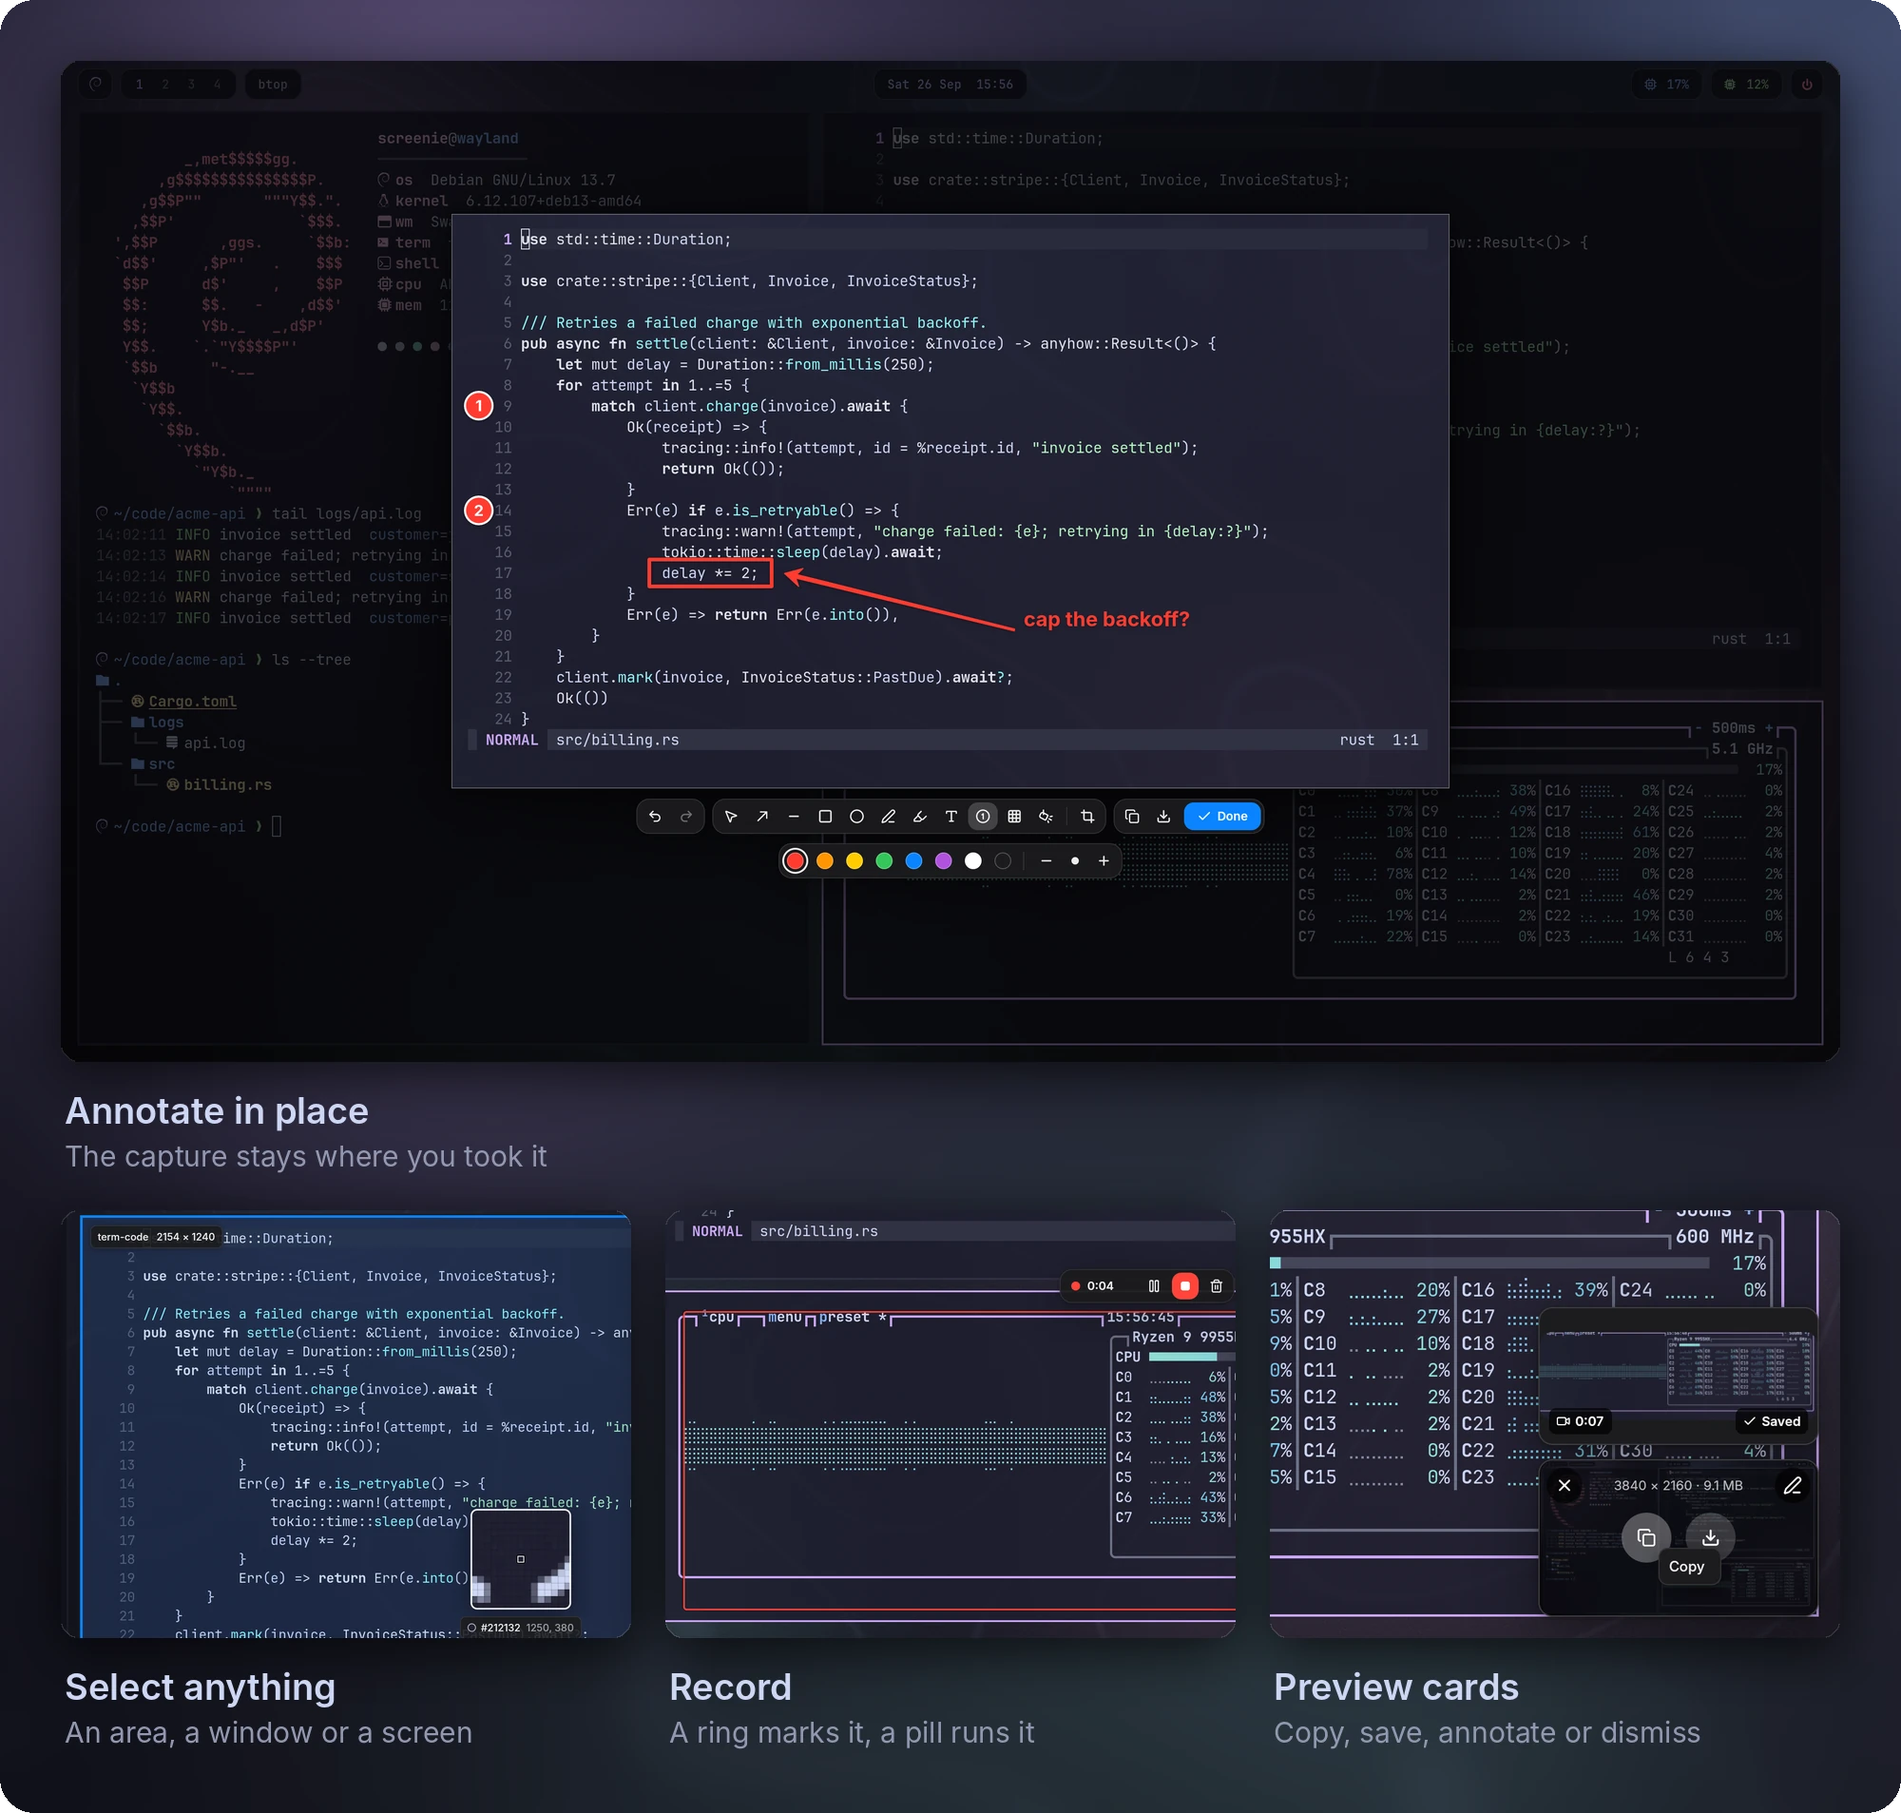
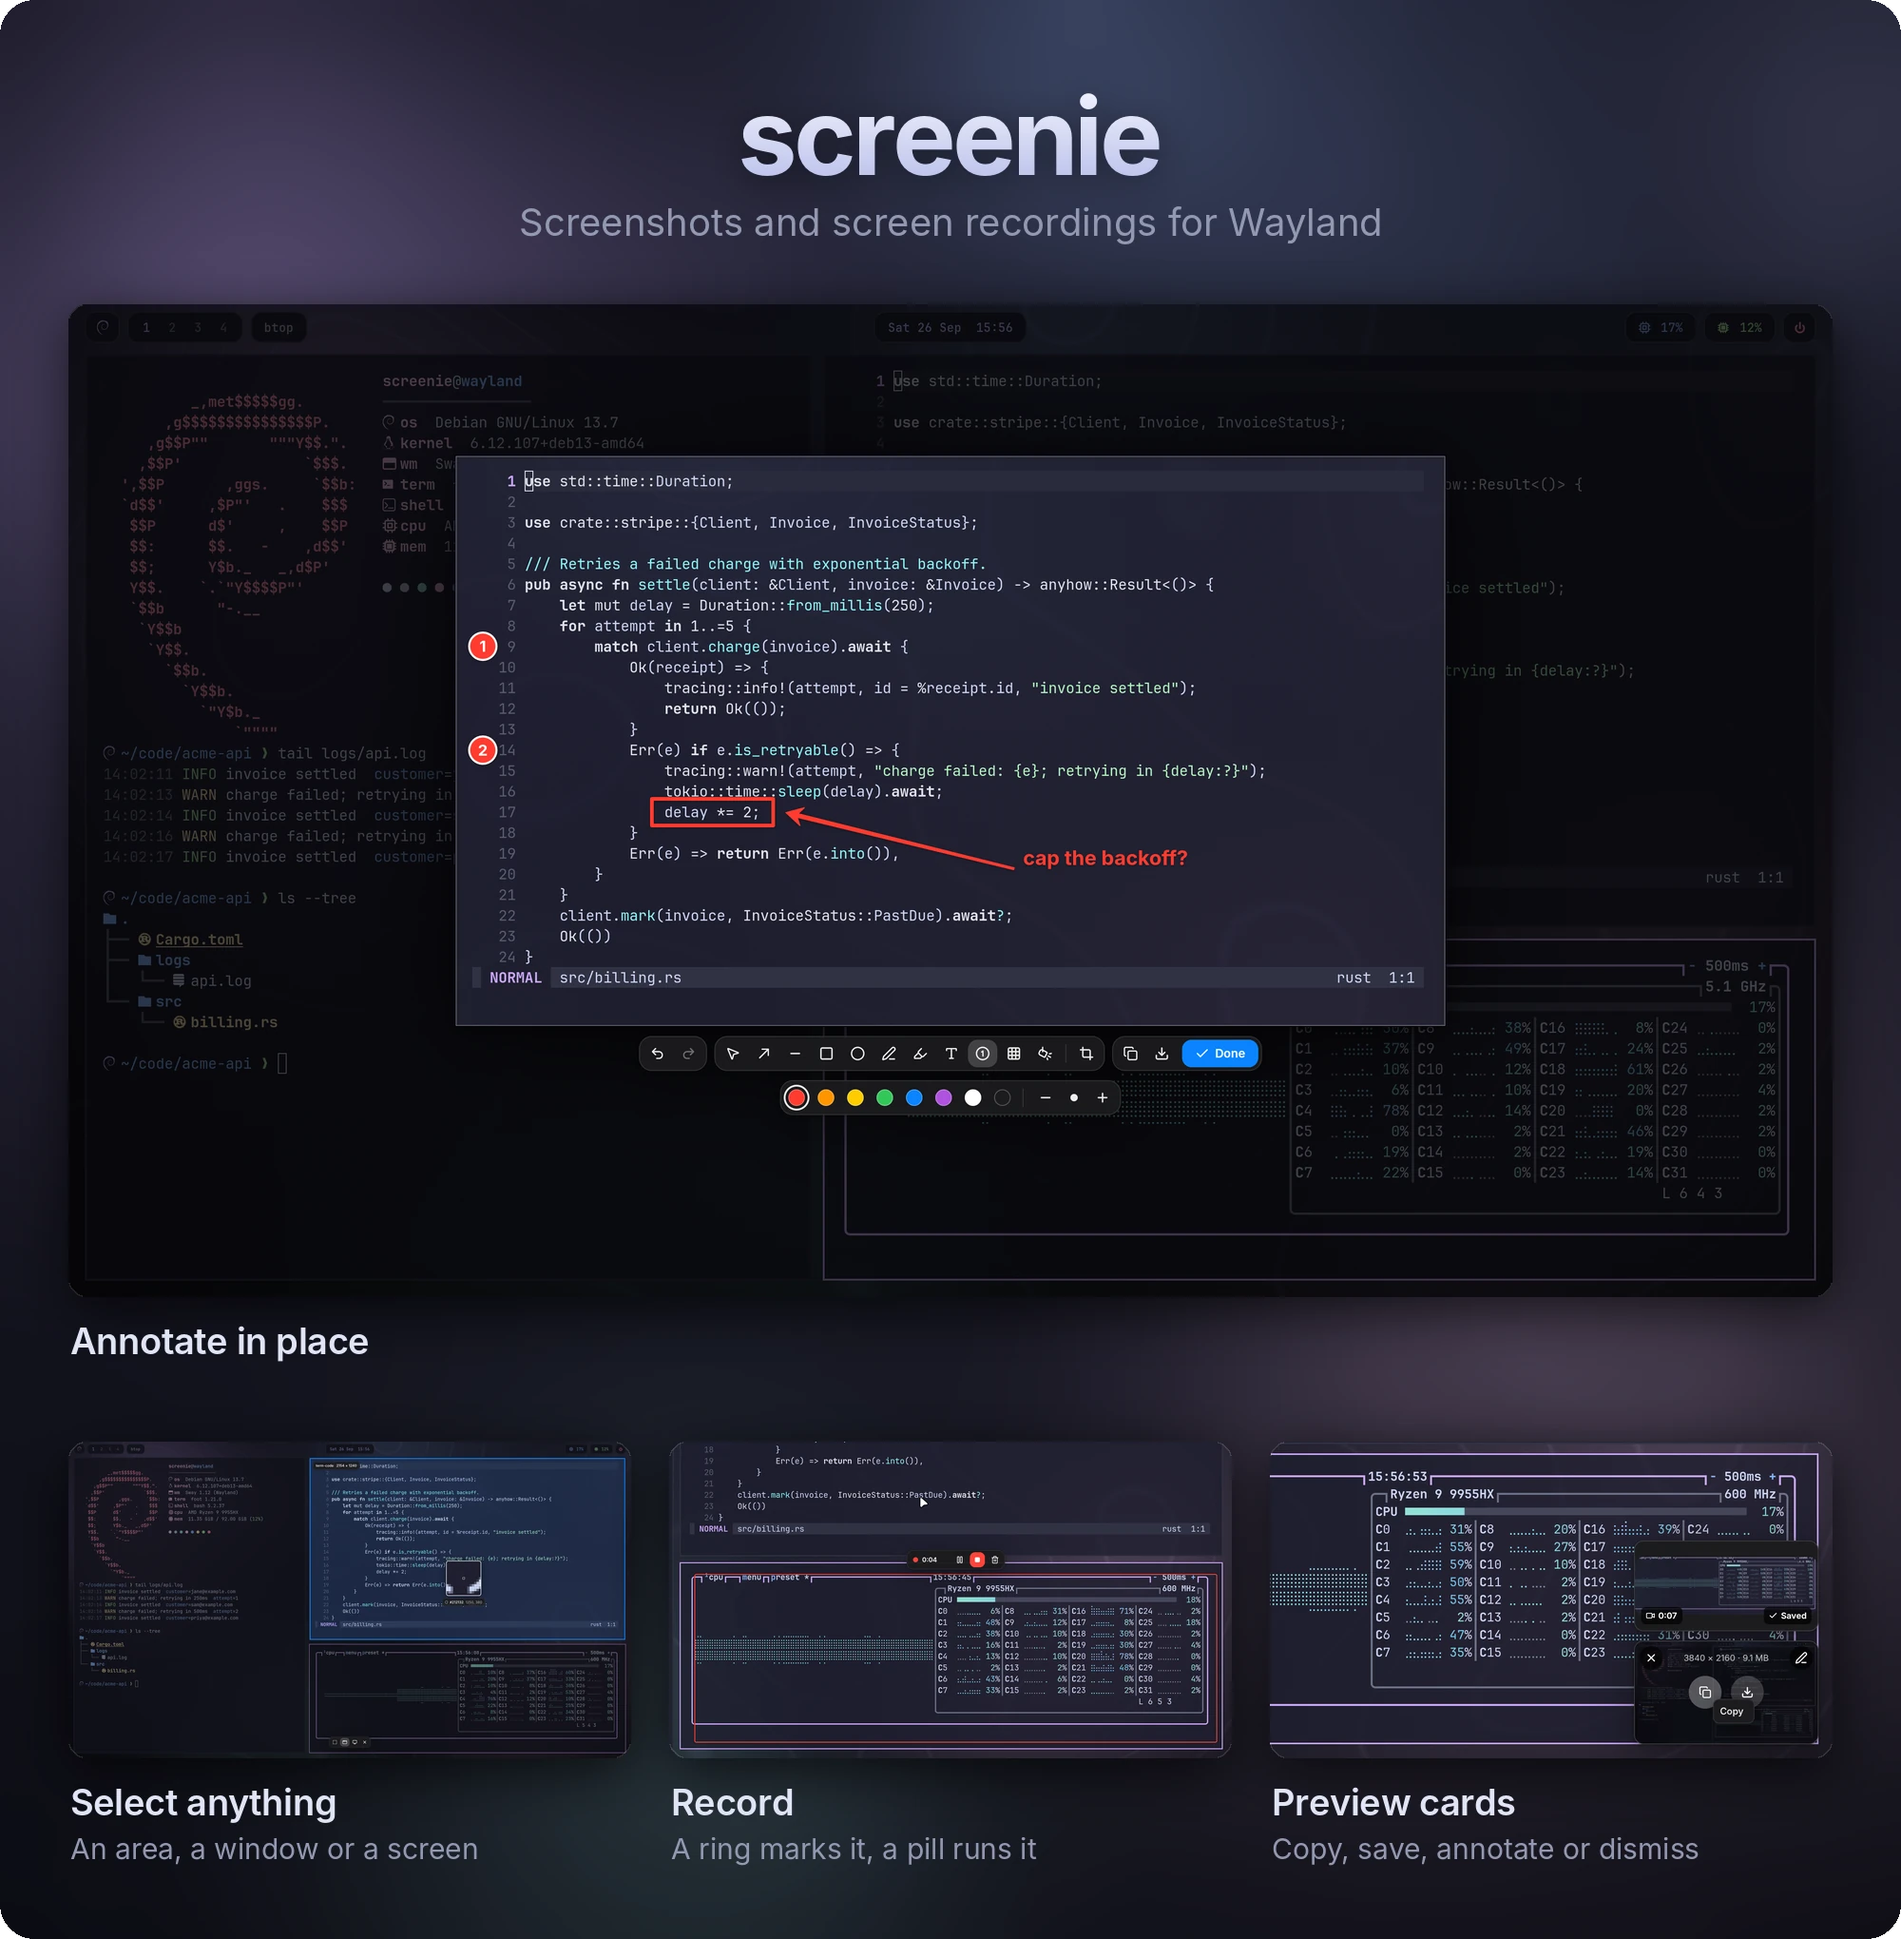
chore(demo): the hero gets a title, whole screens, and a backdrop drawn to size
A wordmark and tagline over the tiles; Select shows the whole screen being
picked from and Record zooms out to the whole ring; the top caption loses its
subtitle, and the rows are spaced so each caption belongs to its tile. The
wallpaper is generated at the hero's size so its colours spread over all of it.

diff --git a/tools/demo/stills.py b/tools/demo/stills.py
@@ -17,7 +17,7 @@ from PIL import Image, ImageChops, ImageDraw, ImageFilter, ImageFont
 
 ROOT = Path(__file__).resolve().parents[2]
 STILLS = ROOT / ".cache" / "demo" / "stills"
-WALLPAPER = ROOT / ".cache" / "demo" / "assets" / "wallpaper.png"
+ASSETS = ROOT / ".cache" / "demo" / "assets"
 FONTS = ROOT / "assets" / "fonts"
 OUT = ROOT / "docs" / "media"
 
@@ -29,18 +29,20 @@ IMAGES = {
 }
 
 
-# The hero: the desktop across the top, three close-ups under it, each with a caption.
-# The close-ups are cropped tighter than the highlights', since they're shown smaller.
-HERO_TOP = ("annotate", None, "Annotate in place", "The capture stays where you took it")
+# The hero: a title, the desktop across the top, and three views of the rest under it,
+# 16:9 like the desktop so the row reads as a row of screens. Logical crops, as above.
+HERO_TITLE = ("screenie", "Screenshots and screen recordings for Wayland")
+HERO_TOP = ("annotate", None, "Annotate in place")
 HERO_ROW = [
-    ("select-window", (800, 50, 1480, 560), "Select anything", "An area, a window or a screen"),
-    ("recording", (830, 600, 1470, 1080), "Record", "A ring marks it, a pill runs it"),
-    ("card-hover", (1440, 720, 1920, 1080), "Preview cards", "Copy, save, annotate or dismiss"),
+    ("select-window", None, "Select anything", "An area, a window or a screen"),
+    ("recording", (800, 450, 1920, 1080), "Record", "A ring marks it, a pill runs it"),
+    ("card-hover", (1200, 675, 1920, 1080), "Preview cards", "Copy, save, annotate or dismiss"),
 ]
 HERO_WIDTH = 2000
-PAD, GAP = 64, 36
+PAD, GAP = 72, 40  # around the edges, and between tiles in a row
+ROW_GAP = 80  # between a caption and the row under it
 RADIUS = 18
-TEXT, SUBTEXT = (205, 214, 244), (147, 153, 178)
+TEXT, SUBTEXT = (224, 228, 246), (147, 153, 178)
 
 
 def image(still, crop, width):
@@ -76,10 +78,68 @@ def tile(canvas, img, x, y):
     canvas.paste((255, 255, 255), (x, y), edge.point(lambda v: v * 0.12))
 
 
-def caption(draw, x, y, title, subtitle):
-    draw.text((x, y), title, font=font("SemiBold", 38), fill=TEXT)
-    draw.text((x, y + 52), subtitle, font=font("Regular", 30), fill=SUBTEXT)
-    return y + 52 + 40
+def tracked(draw, xy, text, font, fill, tracking=0.0, anchor="la"):
+    """Text with letter spacing (a fraction of the size), for display sizes."""
+    widths = [font.getlength(c) for c in text]
+    width = sum(widths) + tracking * font.size * (len(text) - 1)
+    x, y = xy
+    if anchor[0] == "m":
+        x -= width / 2
+    for c, w in zip(text, widths):
+        draw.text((x, y), c, font=font, fill=fill, anchor="l" + anchor[1])
+        x += w + tracking * font.size
+
+
+# Captions under tiles: a title and an optional subtitle, as (size, space above baseline).
+CAPTION_TITLE = ("SemiBold", 38, 60)
+CAPTION_SUBTITLE = ("Regular", 30, 46)
+CAPTION_BOTTOM = 12  # below the last baseline, for descenders
+
+
+def caption_height(subtitle):
+    return CAPTION_TITLE[2] + (CAPTION_SUBTITLE[2] if subtitle else 0) + CAPTION_BOTTOM
+
+
+def caption(draw, x, y, title, subtitle=None):
+    weight, size, above = CAPTION_TITLE
+    y += above
+    tracked(draw, (x, y), title, font(weight, size), TEXT, -0.01, "ls")
+    if subtitle:
+        weight, size, above = CAPTION_SUBTITLE
+        y += above
+        draw.text((x, y), subtitle, font=font(weight, size), fill=SUBTEXT, anchor="ls")
+
+
+def backdrop(width, height):
+    """The demo wallpaper, drawn at this size so its colours spread over all of it, and
+    blurred: the desktop the screenshots come from, out of focus."""
+    path = ASSETS / f"backdrop-{width}x{height}.png"
+    if not path.exists():
+        script = ROOT / "tools/demo/wallpaper.py"
+        subprocess.run(
+            ["uv", "run", "-q", "--script", str(script), str(path), str(width), str(height)],
+            check=True,
+        )
+    return Image.open(path).convert("RGB").filter(ImageFilter.GaussianBlur(28))
+
+
+def wordmark(canvas, x, baseline, text, size):
+    """The name: display-tracked, lit from above with a faint gradient, on a soft shadow."""
+    f = font("Bold", size)
+    mask = Image.new("L", canvas.size, 0)
+    tracked(ImageDraw.Draw(mask), (x, baseline), text, f, 255, -0.035, "ms")
+    shadow = mask.filter(ImageFilter.GaussianBlur(size / 6)).point(lambda v: v * 0.45)
+    canvas.paste((0, 0, 0), (0, round(size / 16)), shadow)
+    # From the top of the ascenders to the baseline; descenders keep the last colour.
+    top, bottom = (250, 250, 255), (192, 198, 238)
+    ascent = f.getmetrics()[0]
+    fill = Image.new("RGB", canvas.size, bottom)
+    ramp = Image.linear_gradient("L").resize((canvas.width, ascent))
+    ramp_rgb = Image.merge(
+        "RGB", [ramp.point(lambda v, a=a, b=b: a + (b - a) * v / 255) for a, b in zip(top, bottom)]
+    )
+    fill.paste(ramp_rgb, (0, round(baseline - ascent)))
+    canvas.paste(fill, (0, 0), mask)
 
 
 def hero():
@@ -88,28 +148,32 @@ def hero():
     row_w = (inner - 2 * GAP) // 3
     row = [image(still, crop, row_w) for still, crop, *_ in HERO_ROW]
 
-    caption_h = 52 + 40
-    height = PAD + top.height + 28 + caption_h + GAP + row[0].height + 28 + caption_h + PAD
-    if not WALLPAPER.exists():
-        subprocess.run(
-            ["uv", "run", "-q", "--script", str(ROOT / "tools/demo/wallpaper.py"), str(WALLPAPER)],
-            check=True,
-        )
-    backdrop = Image.open(WALLPAPER).convert("RGB")
-    scale = max(HERO_WIDTH / backdrop.width, height / backdrop.height)
-    backdrop = backdrop.resize(
-        (round(backdrop.width * scale), round(backdrop.height * scale)), Image.LANCZOS
-    )
-    canvas = backdrop.crop((0, 0, HERO_WIDTH, height)).filter(ImageFilter.GaussianBlur(24))
-
+    name, tagline = HERO_TITLE
+    name_size, tagline_size, tagline_gap = 112, 40, 64
+    title_h = name_size + tagline_gap
+    height = (
+        PAD + title_h + PAD
+        + top.height + caption_height(None) + ROW_GAP
+        + max(img.height for img in row) + caption_height(True) + PAD
+    )  # fmt: skip
+    canvas = backdrop(HERO_WIDTH, height)
     draw = ImageDraw.Draw(canvas)
-    tile(canvas, top, PAD, PAD)
-    y = caption(draw, PAD + 4, PAD + top.height + 28, *HERO_TOP[2:])
-    y += GAP
+
+    y = PAD + name_size
+    wordmark(canvas, HERO_WIDTH / 2, y, name, name_size)
+    y += tagline_gap
+    draw.text(
+        (HERO_WIDTH / 2, y), tagline, font=font("Regular", tagline_size), fill=SUBTEXT, anchor="ms"
+    )
+
+    y += PAD
+    tile(canvas, top, PAD, y)
+    caption(draw, PAD + 2, y + top.height, HERO_TOP[2])
+    y += top.height + caption_height(None) + ROW_GAP
     for i, (img, (*_, title, subtitle)) in enumerate(zip(row, HERO_ROW)):
         x = PAD + i * (row_w + GAP)
         tile(canvas, img, x, y)
-        caption(draw, x + 4, y + img.height + 28, title, subtitle)
+        caption(draw, x + 2, y + img.height, title, subtitle)
 
     # Round the whole card, so it sits on light and dark pages alike.
     canvas.putalpha(rounded(canvas.size, 36))
